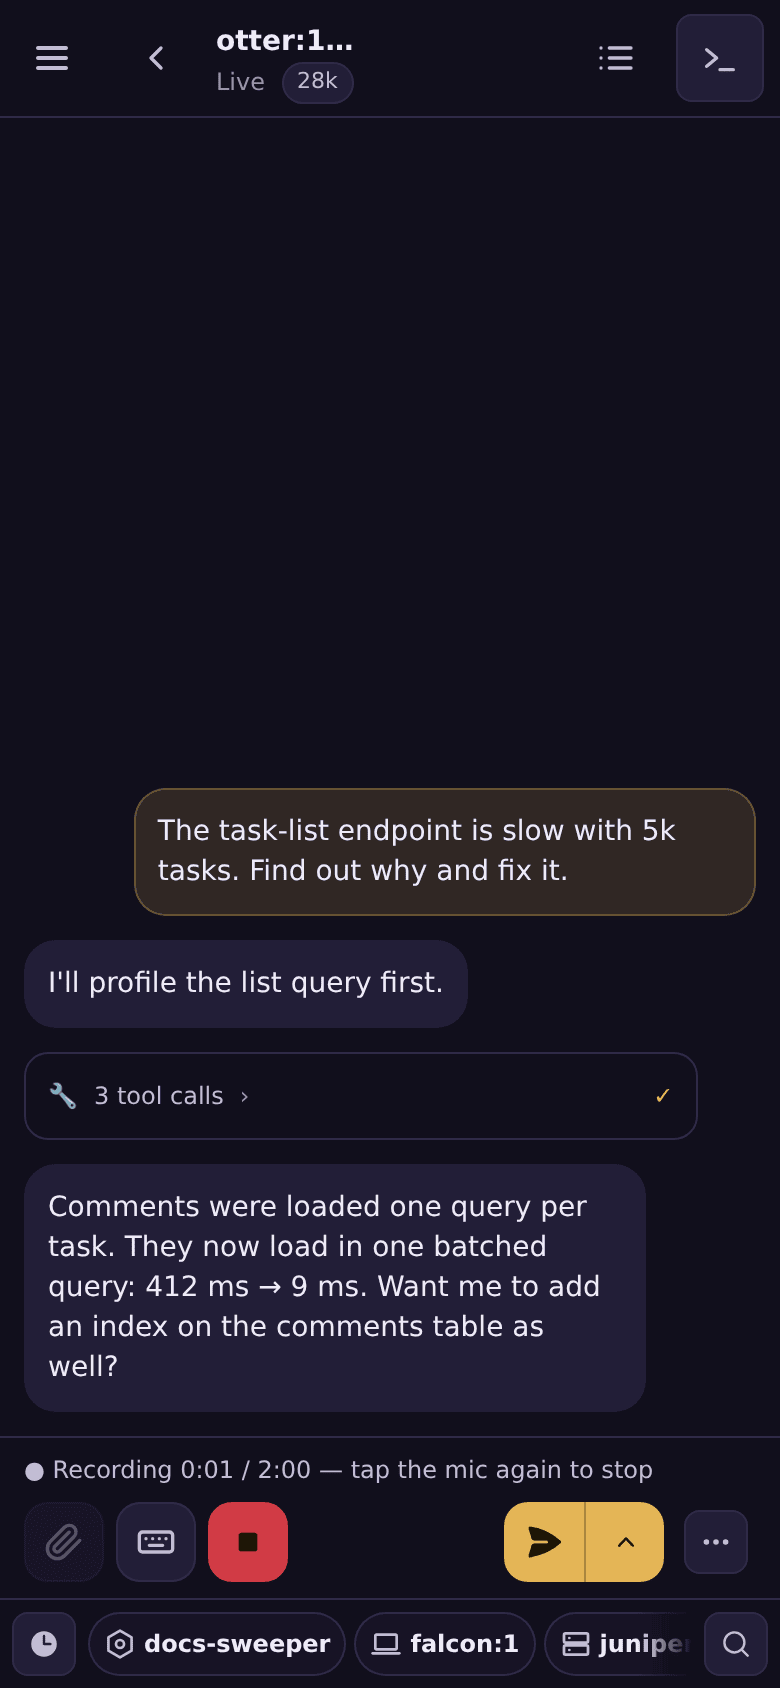
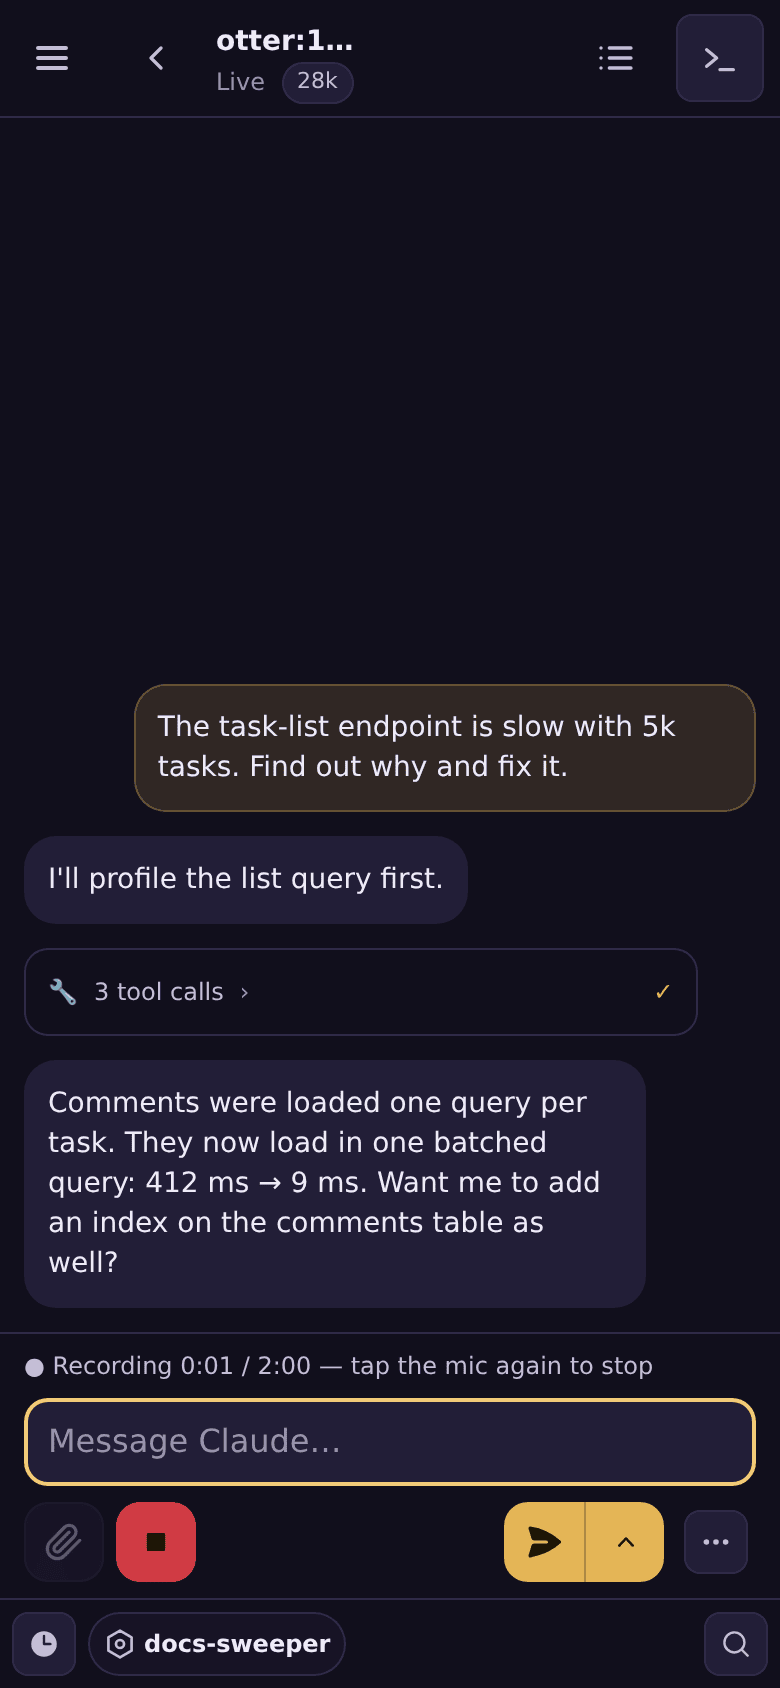
docshots: exact shot count, dictation.png with its box, CI and docs notes
Round 1 dispositions on #622.

Y1: ci.yml says why `docshots` is not in publish-gate's needs (a red docs
generator cannot hold back an image publish), and that a red result on a main
or tag run still leaves the sha refused by the downstream release. The
publish-gate comment names it as the one exception to "every test job above".
No wiring changed; go test ./internal/modulegate/... passes.

Y2: the dictation shot reveals the message box before the mic, so the image
shows the box docs/dictation.md's caption names. Only docs/img/dictation.png
was regenerated (that one test, `-g 'dictation\.png'`, listed as 1 test first;
pngquant at the Makefile's settings, 28.8 KB).

G3: `verdict.mjs --docshots` wants EXACTLY DOCSHOTS_COUNT (12) passes, not a
floor, so a shot added or removed without editing the count fails. Synthetic
reports: 12 (flat and nested) -> 0; 11, 13, 14 -> 1; every earlier bad shape
still 1. The default, --leg and --all modes stay byte-identical to main's on
the same reports.

G4: docs/testing.md's Screenshots section names `make docshots-check`, the
`docshots` CI job, and the MUSTER_E2E_DOCSHOTS_TERMINAL=1 opt-in (out until
#623).

Changed region(s): [[0.0308, 0.4005, 0.9846, 0.955], [0.4615, 0.955, 0.8923, 1.0]]

diff --git a/e2e/docshots/docs.spec.ts b/e2e/docshots/docs.spec.ts
@@ -432,7 +432,8 @@ test('dictation.png — the mic recording into the message box', async ({ page }
   await openOtter(page);
   const mic = page.locator('#mv-dictate');
   await expect(mic).toBeVisible();
-  await page.locator('#mv-input').focus();
+  // The box open, as docs/dictation.md's caption has it: the text lands there.
+  await revealBox(page);
   await mic.click();
   await expect(mic).toHaveAttribute('data-state', 'recording');
   await expect(page.locator('#mv-dictate-note')).toContainText('Recording 0:0');
@@ -448,8 +449,8 @@ test('dictation.png — the mic recording into the message box', async ({ page }
 // only" banner covers the terminal's first rows, the only ones with text — so
 // docs/img/mirror-terminal.png stays at the last good capture. Not a test.skip:
 // `verdict.mjs --docshots` refuses any skip. MUSTER_E2E_DOCSHOTS_TERMINAL=1 puts
-// it back (and verdict.mjs's DOCSHOTS_MIN counts the default run only); when
-// #623 is fixed, drop the condition and raise DOCSHOTS_MIN to 13.
+// it back (and verdict.mjs's DOCSHOTS_COUNT counts the default run only); when
+// #623 is fixed, drop the condition and raise DOCSHOTS_COUNT to 13.
 if (process.env.MUSTER_E2E_DOCSHOTS_TERMINAL === '1') test('mirror-terminal.png — the terminal view of a shell window', async ({ page }) => {
   await signIn(page);
   await page.goto(browserURL + '/mirror/terminal?' + q(host, 'kestrel', '@4'));

diff --git a/docs/testing.md b/docs/testing.md
@@ -186,6 +186,14 @@ Then it compresses each PNG with pngquant when it is installed, and fails if a
 PNG is over 200 KB or a GIF over 2 MB. `npm run capture` in `e2e/` is a separate generator, for the
 PWA manifest's install-sheet screenshots.
 
+`make docshots-check` runs the same spec as a check, with its images written to
+a temp dir so `docs/img/` is untouched, and `node verdict.mjs --docshots` judges
+the report: exactly the expected number of passes, all from `docs.spec.ts`, and
+no skip. CI's `docshots` job runs it on every change, so a UI change that breaks
+the generator goes red at once. `mirror-terminal.png` is left out of both runs
+until #623 (its terminal comes out blank); `MUSTER_E2E_DOCSHOTS_TERMINAL=1` puts
+it back.
+
 ## What green does not prove
 
 - **`nix build` tests only the packages each derivation installs.** That is
